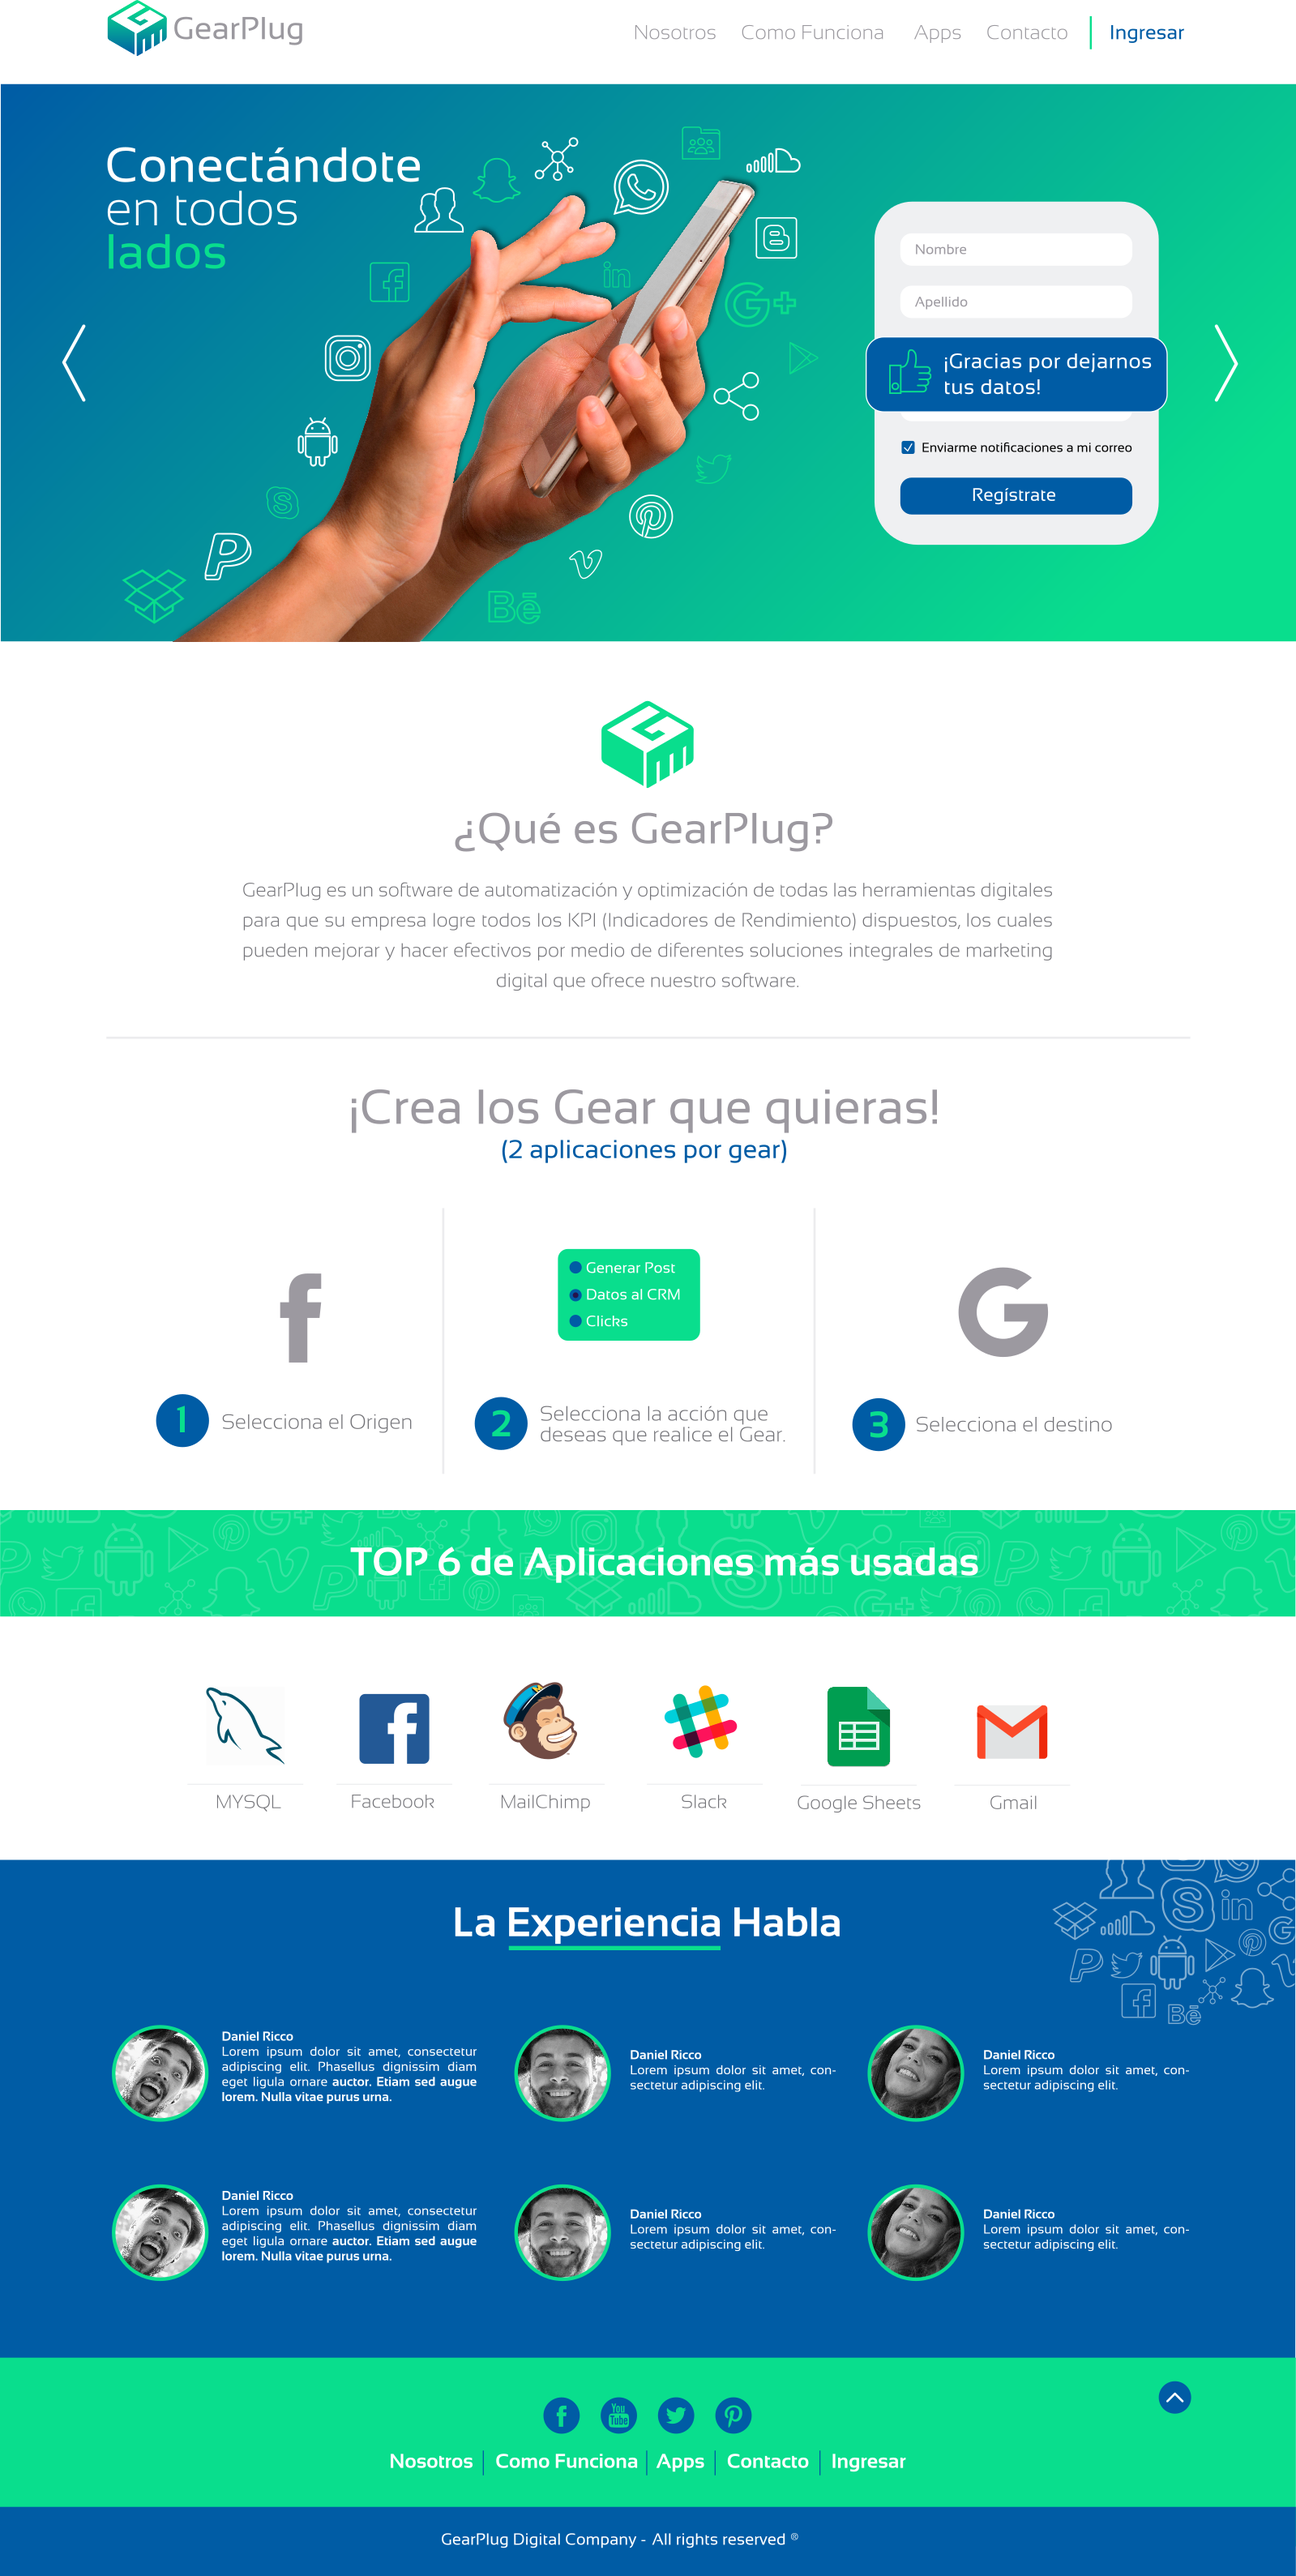
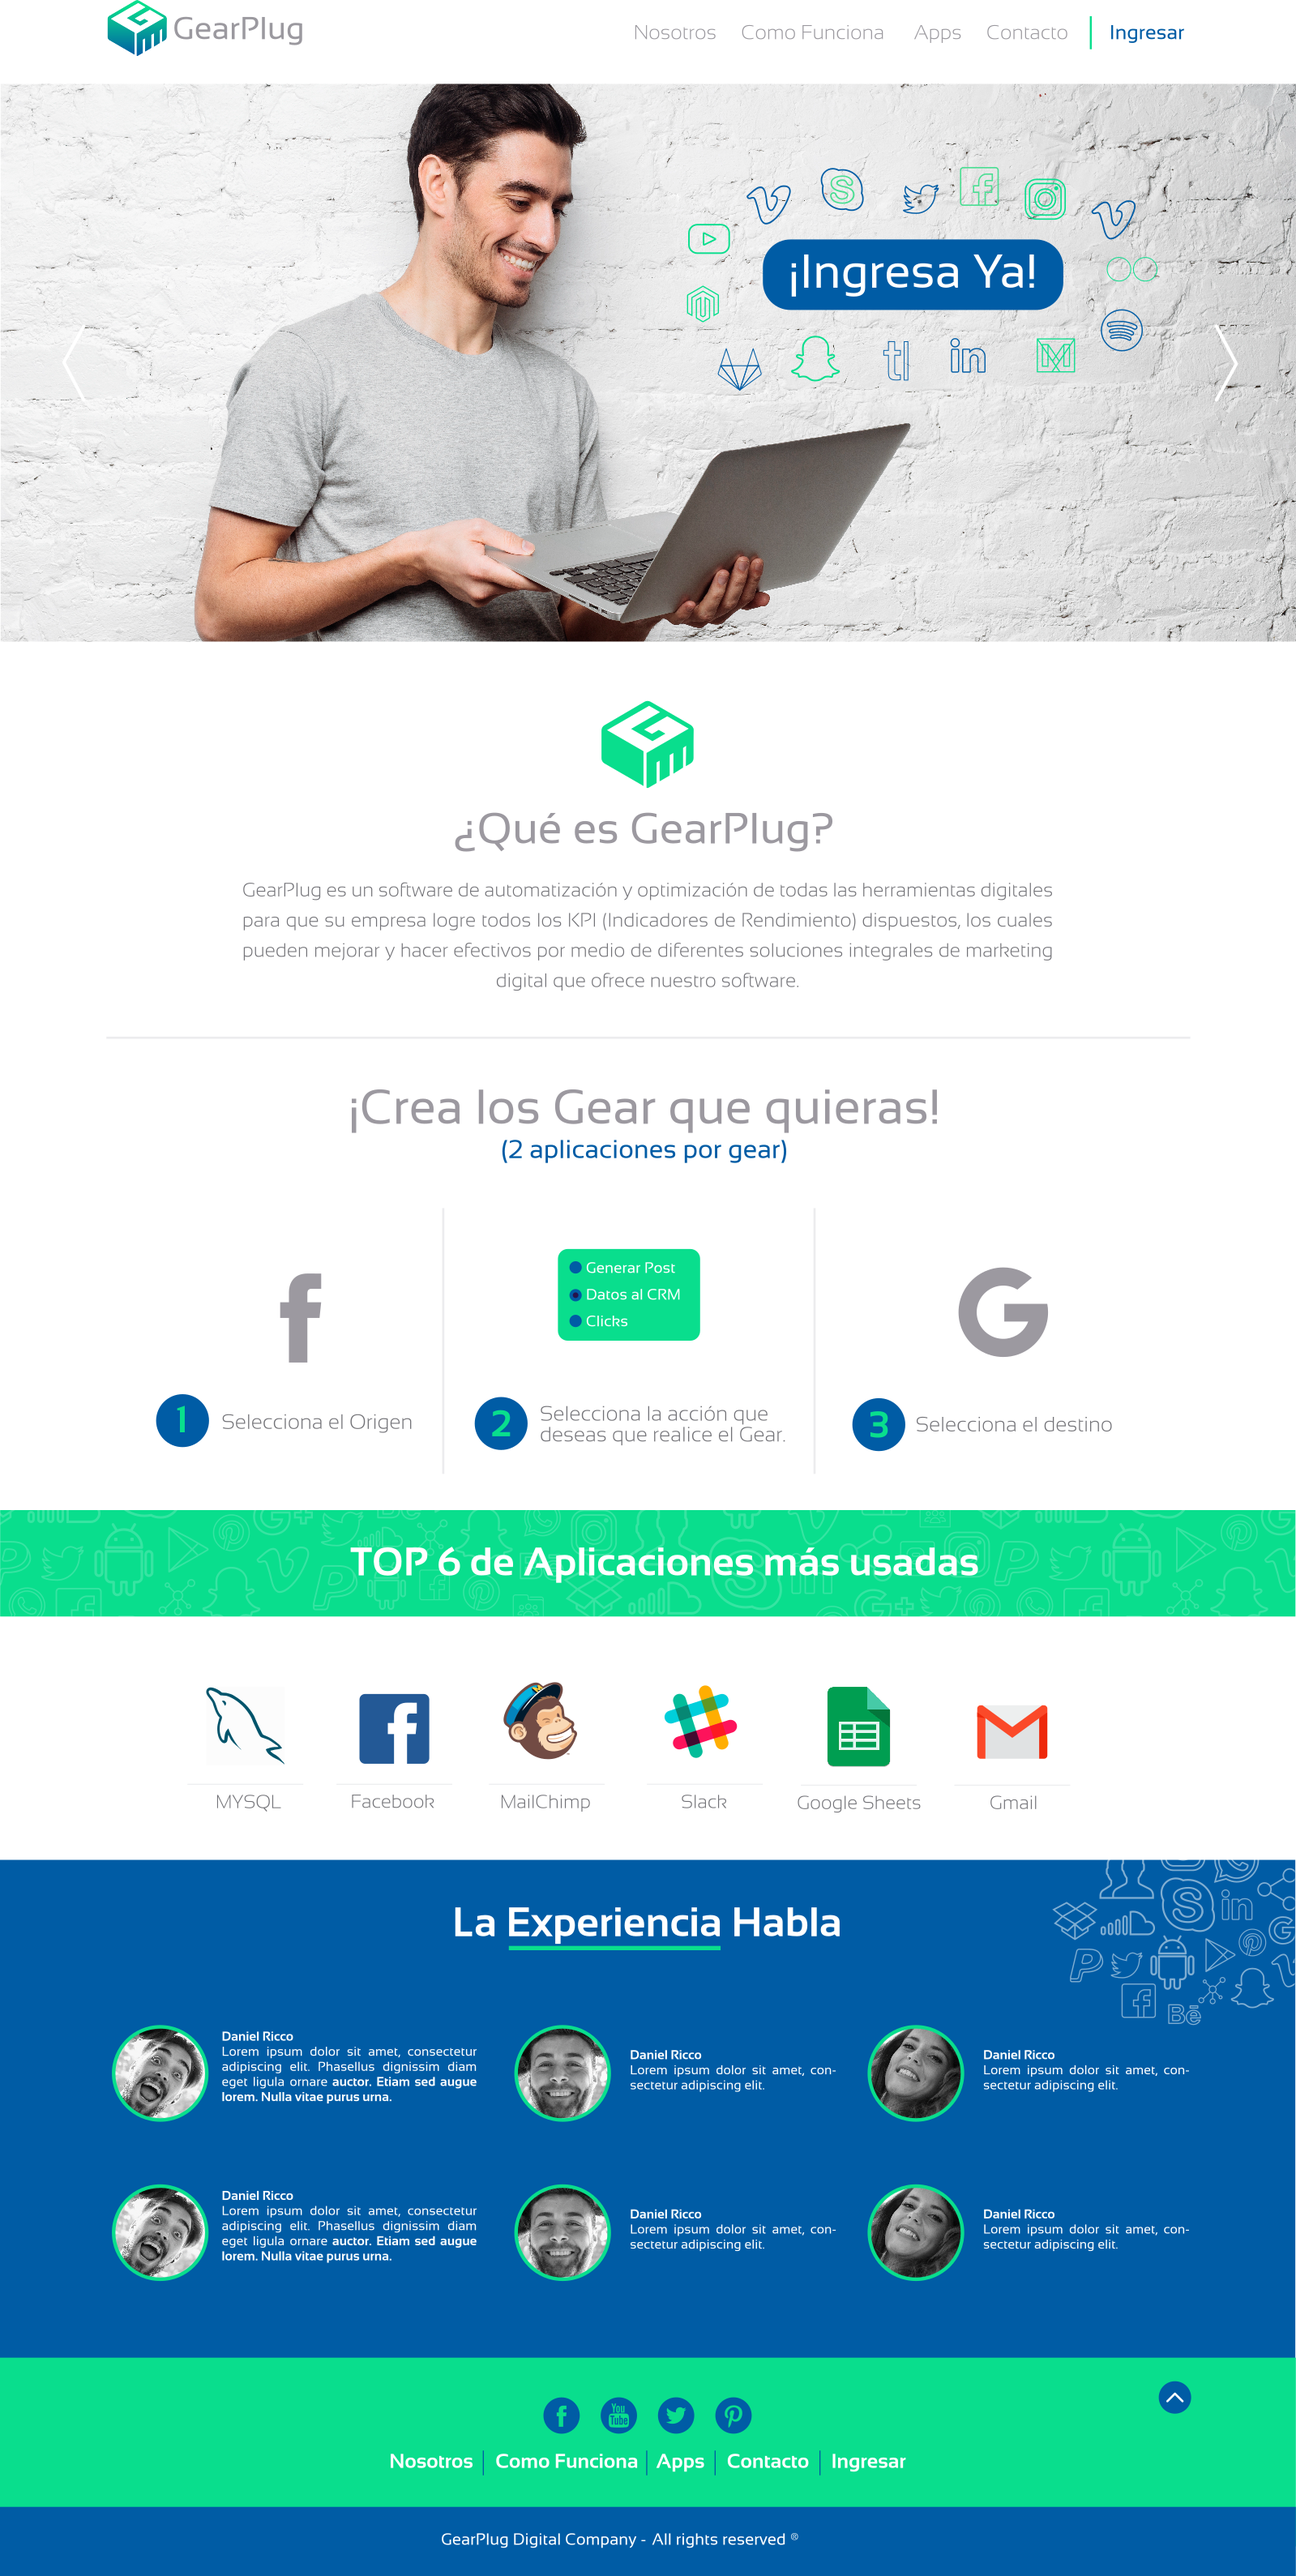
Arreglos de la landing en el index

Changed region(s): [[0.0, 0.0312, 1.0, 0.2492]]

diff --git a/templates/landing/index.html b/templates/landing/index.html
@@ -5,23 +5,23 @@
     <div id="carousel-example-generic" class="carousel slide" data-ride="carousel">
         <div class="carousel-inner">
 {#            {% if request.user.is_authenticated is False %}#}
-                <div class="item active container-fluid slide-item">
-                    <img src="{% static 'img/landing/slide1.png' %}" alt="First slide" class="slide">
-                    <div class="carousel-caption slide-caption">
-                        {% blocktrans %}
-                            Conectándote <br/>
-                            <span class="slide-text-light"> en todos </span> <br/>
-                            <span class="slide-color-aqua"> lados </span>
-                        {% endblocktrans %}
-                    </div>
-                </div>
-                <div class="item">
-                    <img src="{% static 'img/landing/slide1.png' %}" alt="Second slide" class="slide">
-                </div>
-{#            {% else %}#}
-{#                <div class="item active bg_login1">#}
-{#                    &nbsp;#}
+{#                <div class="item active container-fluid slide-item">#}
+{#                    <img src="{% static 'img/landing/slide1.png' %}" alt="First slide" class="slide">#}
+{#                    <div class="carousel-caption slide-caption">#}
+{#                        {% blocktrans %}#}
+{#                            Conectándote <br/>#}
+{#                            <span class="slide-text-light"> en todos </span> <br/>#}
+{#                            <span class="slide-color-aqua"> lados </span>#}
+{#                        {% endblocktrans %}#}
+{#                    </div>#}
 {#                </div>#}
+{#                <div class="item">#}
+{#                    <img src="{% static 'img/landing/slide1.png' %}" alt="Second slide" class="slide">#}
+{#                </div>#}
+{#            {% else %}#}
+                <div class="item active bg_login1">
+                    &nbsp;
+                </div>
 {#            {% endif %}#}
 
         </div>
@@ -37,13 +37,13 @@
         </a>
     </div>
 {#    {% if request.user.is_authenticated is False %}#}
-        <div class="bg-form">
-            {% include 'landing/snippets/signup_form.html' %}
-        </div>
-{#    {% else %}#}
-{#        <div class="bg_login text-center">#}
-{#            <button type="button" class="btn-login">¡Ingresa Ya!</button>#}
+{#        <div class="bg-form">#}
+{#            {% include 'landing/snippets/signup_form.html' %}#}
 {#        </div>#}
+{#    {% else %}#}
+        <div class="bg_login text-center">
+            <button type="button" class="btn-login">¡Ingresa Ya!</button>
+        </div>
 {#    {% endif %}#}
     <div class="col-md-12 text-center index-space1">
         <img src="{% static 'img/landing/logo_what.png' %}" style="height: 13%;">

diff --git a/templates/layouts/page_base.html b/templates/layouts/page_base.html
@@ -57,18 +57,28 @@
         {% block footer_base %}
             {% block footer_content %}
                 <div class="row">
-                    <div class="col-md-12 bg_footer text-center">
-                        <a href="#"> <img src="{% static 'img/landing/facebook1.png' %}"> </a>
-                        <a href="#"> <img src="{% static 'img/landing/twitter.png' %}"> </a>
-                        <a href="#"> <img src="{% static 'img/landing/facebook1.png' %}"> </a>
-{#                        <a href="{% url 'landing:index' %}">www.gearplug.com</a> - All rights reserved &reg; -#}
-{#                        <a href="{% url 'landing:terms' %}">Términos y Condiciones</a> -#}
-{#                        <a href="{% url 'landing:privacy' %}">Políticas de Privacidad</a>#}
+                    <div class="col-md-12 bg_nets text-center">
+                        <div class="col-md-12">
+                            <a href="#"> <img src="{% static 'img/landing/facebook1.png' %}" class="padding-nets"> </a>
+                            <a href="#"> <img src="{% static 'img/landing/twitter.png' %}" class="padding-nets"> </a>
+                        </div>
+                        <div class="col-md-12 text-menu">
+                            <a href="{% url 'landing:about' %}" class="border-menu">{% trans 'Nosotros' %}</a>
+                            <a href="{% url 'landing:steps' %}" class="border-menu">{% trans 'Cómo Funciona' %}</a>
+                            <a href="{% url 'landing:apps_directory' %}" class="border-menu">{% trans 'Apps' %}</a>
+                            <a href="{% url 'landing:contact' %}" class="border-menu">{% trans 'Contacto' %}</a>
+                            <a href="{% url 'account_login' %}">{% trans 'Ingresar' %}</a>
+                        </div>
+                    </div>
+                    <div class="col-md-12 bg_footer text-center text-footer">
+                        <a href="{% url 'landing:index' %}">www.gearplug.com</a> - All rights reserved &reg; -
+                        <a href="{% url 'landing:terms' %}">Términos y Condiciones</a> -
+                        <a href="{% url 'landing:privacy' %}">Políticas de Privacidad</a>
                     </div>
                 </div>
             {% endblock %}
         {% endblock %}
     </footer>
+    <span class="ir-arriba icon-arrow-up2"></span>
     {% block scripts_gear %}{% endblock %}
 {% endblock %}
-

diff --git a/staticfiles/css/landing/style_page.css b/staticfiles/css/landing/style_page.css
@@ -1,5 +1,5 @@
 .ayuda {
-    background: url(../../img/landing/plantilla.png) no-repeat scroll 50% 876px;
+    background: url(../../img/landing/plantilla.png) no-repeat scroll 201px 876px;
 }
 
 .bg_page {
@@ -53,17 +53,58 @@
 }
 
 /* Footer */
-.bg_footer {
-    /*background-color: #09DE8D;*/
-    background-color: transparent;
-    padding-top: 2.6%;
+.bg_nets {
+    background-color: #09DE8D;
+    padding: 2.6% 0 2% 0;
 }
 
-.bg_footer a {
-    color: #00E08F;
+.padding-nets {
+    padding-right: 1.2%;
+}
+
+.text-menu {
+    padding-top: 0.9%;
+}
+
+.text-menu a{
+    color: white;
+    font-family: 'Sansation Bold';
+    font-size: 1.75em;
+    padding: 0 0.8%;
+    text-decoration: none;
+}
+
+.border-menu {
+    border-right: 1px #005CA5 solid;
+}
+
+.bg_footer {
+    background-color: #005CA5;
+    padding: 1.3% 0 1.7% 0;
+}
+
+.text-footer {
+    color: white;
+    font-family: 'Sansation';
+    font-size: 1.45em;
+}
+
+.text-footer a {
+    color: white;
     text-decoration: none;
 }
 
 footer {
     background: transparent;
+}
+
+.ir-arriba {
+	display:none;
+	padding:20px;
+	background: url(../../img/landing/top.png) no-repeat;
+	font-size:20px;
+	cursor:pointer;
+	position: fixed;
+	bottom:20px;
+	right:20px;
 }

diff --git a/templates/layouts/base.html b/templates/layouts/base.html
@@ -88,6 +88,18 @@
                         }
                     }
                 });
+                $('.ir-arriba').click(function(){
+                    $('body, html').animate({
+                        scrollTop: '0px'
+                    }, 300);
+                });
+                $(window).scroll(function(){
+                    if( $(this).scrollTop() > 0 ){
+                        $('.ir-arriba').slideDown(300);
+                    } else {
+                        $('.ir-arriba').slideUp(300);
+                    }
+                });
             });
         </script>
         {% block scripts %}{% endblock %}

diff --git a/staticfiles/css/landing/index.css b/staticfiles/css/landing/index.css
@@ -294,8 +294,10 @@
 }
 
 .bg_login1{
-    background-color: #005CA6;
+    background: url("../../img/landing/slide2.png") no-repeat scroll 0 0;
     height: 821px;
+    background-size: contain;
+    /*width: 100%;*/
 }
 
 .btn-login{
